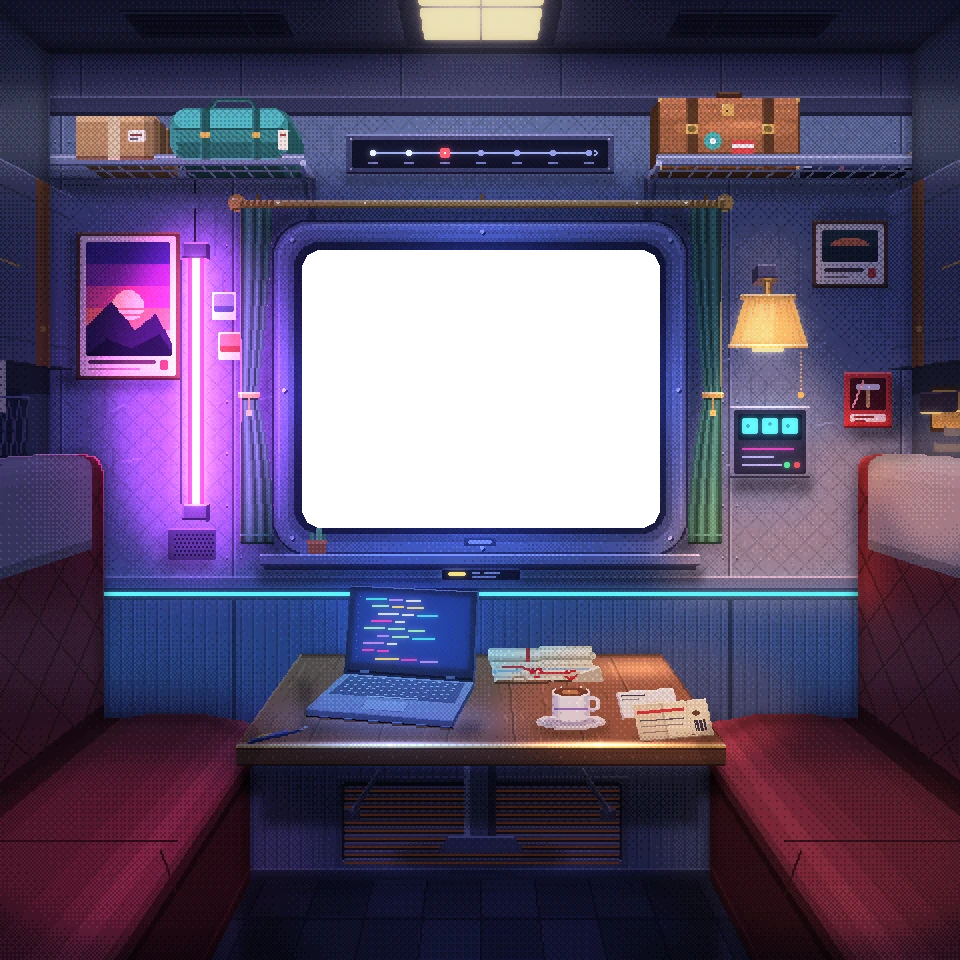
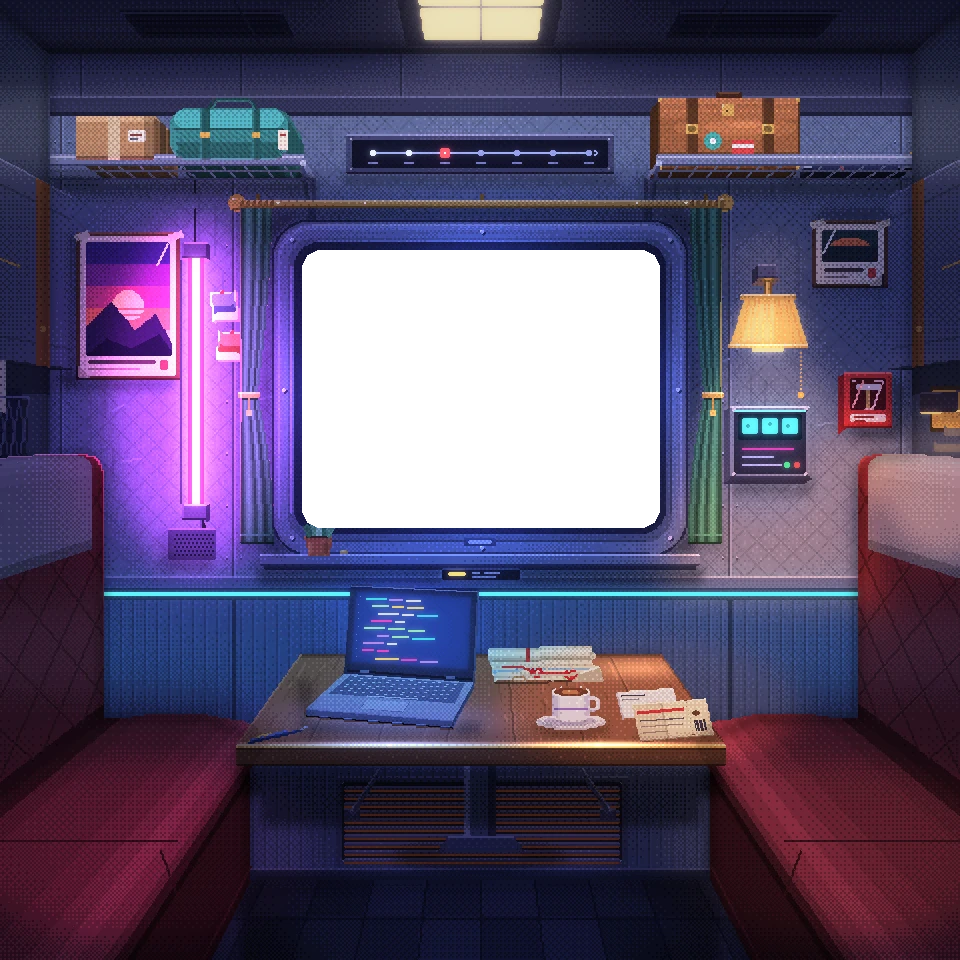
art(O-01, O-02, O-14, O-15, O-16, O-18, O-19): refine the window wall
The window's reveal is lit along its top and left and shadowed right and below, its bolts catch a specular. The sill's plant is a terracotta pot with a rosette, a coin beside it. The tube has its cable. The posters are taped at the top, lift at one corner and carry a glare. The polaroids are tilted, with an edge and a pin. The control panel is a raised housing with screws, its screens glowing on the frame. The hammer box stands off the wall, with a glare on its glass.

diff --git a/tools/art/room.py b/tools/art/room.py
@@ -776,8 +776,16 @@ def window(g, rnd):
     g.speckle(137, 111, 206, 166, 0.07, rnd, 0.3)
     g.line([(156, 112), (324, 112)], (176, 188, 220))
     g.line([(156, 276), (324, 276)], (60, 68, 104))
+    # the reveal's bevel (docs/13, O-01): lit along its top and on the left,
+    # where the neon is, in shadow along the right and the bottom
+    g.line([(158, 120), (322, 120)], mul(fr, 1.1))
+    g.line([(145, 133), (145, 256)], (150, 128, 196))
+    g.line([(146, 133), (146, 256)], mul(fr, 0.95))
+    g.line([(335, 133), (335, 256)], mul(fr, 0.62))
+    g.line([(158, 270), (322, 270)], mul(fr, 0.6))
     for x, y in ((145, 119), (334, 119), (145, 268), (334, 268), (240, 115), (240, 273), (141, 194), (338, 194)):
         g.rect(x, y, 2, 2, (190, 200, 228))
+        g.px(x, y, (246, 248, 255))
         g.px(x + 1, y + 2, (50, 56, 88))
         g.px(x + 2, y + 1, (50, 56, 88))
     # handle
@@ -790,12 +798,29 @@ def window(g, rnd):
     g.rect(130, 282, 220, 1, (50, 56, 88))
     g.rect(132, 283, 216, 2, (40, 46, 74))
     # odds and ends on the sill: a succulent and a coin
-    g.rect(154, 271, 9, 6, (176, 96, 70))
-    g.rect(153, 270, 11, 2, (208, 124, 90))
-    g.rect(155, 266, 2, 4, (86, 160, 110))
-    g.rect(158, 264, 3, 6, (106, 184, 124))
-    g.rect(161, 267, 2, 3, (76, 140, 100))
-    g.px(159, 263, (150, 220, 160))
+    # (docs/13, O-02) a terracotta pot, rim and soil, and a rosette of fat
+    # leaves, lit from the left; its shadow on the sill
+    g.shadow(155, 276, 14, 2, 0.5)
+    g.poly([(153, 270), (165, 270), (164, 277), (154, 277)], (176, 96, 70))
+    g.rect(154, 271, 2, 6, (206, 124, 90))
+    g.rect(162, 271, 2, 6, (140, 74, 56))
+    g.rect(152, 268, 14, 2, (214, 132, 96))
+    g.rect(152, 269, 14, 1, (160, 86, 64))
+    g.rect(153, 268, 12, 1, (70, 50, 44))
+    leaf, lit, dk = (96, 170, 116), (150, 214, 160), (60, 124, 86)
+    for pts, c in (
+        ([(154, 268), (151, 263), (153, 262), (157, 267)], dk),
+        ([(164, 268), (167, 263), (165, 262), (161, 267)], leaf),
+        ([(156, 267), (155, 260), (158, 259), (159, 267)], leaf),
+        ([(162, 267), (163, 260), (160, 259), (159, 267)], dk),
+        ([(158, 267), (158, 257), (160, 257), (160, 267)], lit),
+    ):
+        g.poly(pts, c)
+    g.px(158, 257, (200, 240, 200))
+    g.px(155, 260, (190, 232, 190))
+    # a coin by the pot
+    g.ellipse(170, 275, 4, 2, (200, 170, 96))
+    g.px(171, 275, (255, 236, 170))
     # nameplate
     g.rect(221, 284, 39, 6, (26, 28, 48))
     g.rect(221, 284, 39, 1, (70, 76, 110))
@@ -839,6 +864,19 @@ def poster(g, x, y, w, h, kind):
     g.rect(x + 4, y + h - 8, w - 14, 2, (70, 60, 70))
     g.rect(x + 4, y + h - 4, w - 22, 1, (150, 130, 130))
     g.rect(x + w - 8, y + h - 8, 4, 5, (200, 70, 70))
+    # (docs/13, O-15) tape over the top corners, the bottom corner on the side
+    # away from the light lifting off the wall, and a glare streak across the
+    # print from the light's side
+    for tx in (x - 3, x + w - 4):
+        g.poly([(tx, y - 1), (tx + 6, y - 3), (tx + 7, y), (tx + 1, y + 2)], (214, 210, 186))
+    lit_left = x > 240  # the small frame is lit by the lamp, on its left
+    cx = x + w - 1 if lit_left else x - 2  # the far bottom corner from the light
+    d = 1 if lit_left else -1
+    cy = y + h + 1
+    g.poly([(cx, cy), (cx, cy - 6), (cx - d * 6, cy)], (40, 36, 52))
+    g.poly([(cx - d * 1, cy - 1), (cx - d * 1, cy - 6), (cx - d * 6, cy - 1)], (200, 190, 170))
+    gx = x + 3 if lit_left else x + w - 10
+    g.line([(gx + 6, y + 3), (gx, y + 14)], mix((236, 226, 204), (255, 255, 255), 0.5))
 
 
 def cast(g, x, y, w, h, dx, dy, k=0.3, steps=6):
@@ -885,17 +923,33 @@ def walls(g, rnd):
     g.rect(91, 252, 1, 8, mul(cap, 1.25))
     g.rect(91, 259, 12, 1, (30, 32, 54))
     g.rect(90, 130, 1, 122, (44, 48, 76))
+    # its cable, out of the bottom socket and down behind the speaker (O-14)
+    g.line([(100, 260), (101, 262), (101, 264)], (24, 26, 42), width=2)
+    g.line([(100, 260), (100, 263)], (70, 74, 110))
     g.lrect(94, 129, 8, 123, MAG, 0.95, body=(255, 150, 215))
     g.lrect(96, 129, 4, 123, (255, 200, 235), 1.0, body=(255, 226, 244))
     g.lrect(97, 131, 2, 119, (255, 255, 255), 1.0)
     g.light(56, 110, 84, 176, MAG, 0.6)
     # instant photos
-    for x, y, c in ((106, 146, (90, 130, 170)), (109, 166, (190, 120, 90))):
+    # (docs/13, O-16) each tilted a little, a white border with its edge
+    # showing on the side away from the tube, a pin through the top
+    for x, y, c, tilt in ((106, 146, (90, 130, 170), -6), (109, 166, (190, 120, 90), 5)):
         cast(g, x, y, 12, 14, 5, 2, 0.3, 3)  # right beside the tube: short, hard
-        g.rect(x, y, 12, 14, (238, 234, 224))
-        g.rect(x + 1, y + 1, 10, 9, c)
-        g.rect(x + 1, y + 7, 10, 3, mul(c, 0.6))
-        g.px(x + 6, y - 1, (220, 70, 70))
+        a = math.radians(tilt)
+        cx_, cy_ = x + 6, y + 7
+
+        def rot(px_, py_):
+            dx, dy = px_ - cx_, py_ - cy_
+            return (cx_ + dx * math.cos(a) - dy * math.sin(a), cy_ + dx * math.sin(a) + dy * math.cos(a))
+
+        R = lambda x0, y0, x1, y1: [rot(x0, y0), rot(x1, y0), rot(x1, y1), rot(x0, y1)]
+        g.poly(R(x + 1, y + 1, x + 13, y + 15), (150, 146, 140))  # its edge
+        g.poly(R(x, y, x + 12, y + 14), (238, 234, 224))
+        g.poly(R(x + 1, y + 1, x + 11, y + 10), c)
+        g.poly(R(x + 1, y + 7, x + 11, y + 10), mul(c, 0.6))
+        px_, py_ = rot(x + 6, y)
+        g.rect(round(px_) - 1, round(py_) - 1, 2, 2, (220, 70, 70))
+        g.px(round(px_) - 1, round(py_) - 1, (255, 170, 170))
     # speaker
     cast(g, 84, 264, 24, 16, -3, 6, 0.35, 4)
     g.rect(84, 264, 24, 16, (52, 58, 90))
@@ -946,6 +1000,9 @@ def walls(g, rnd):
     g.light(362, 116, 44, 30, (255, 160, 80), 0.2)
     # control panel (outside any focus region, decorative only)
     cast(g, 365, 203, 40, 36, 1, 9)  # straight under the lamp
+    # a raised housing (O-18): its side toward the room and its underside
+    g.poly([(365, 203), (362, 205), (362, 241), (365, 239)], (54, 60, 92))
+    g.poly([(365, 239), (405, 239), (402, 241), (362, 241)], (40, 44, 72))
     g.rect(365, 203, 40, 36, (92, 104, 142))
     g.rect(365, 203, 40, 1, (160, 172, 206))
     g.rect(365, 238, 40, 1, (44, 50, 80))
@@ -959,10 +1016,16 @@ def walls(g, rnd):
     g.lrect(371, 232, 20, 1, (130, 140, 190), 0.35)
     g.lrect(397, 231, 3, 3, (255, 80, 80), 0.8)
     g.lrect(392, 231, 3, 3, (90, 255, 150), 0.7)
+    for x, y in ((366, 204), (402, 204), (366, 236), (402, 236)):  # screws
+        g.rect(x, y, 2, 2, (150, 160, 196))
+        g.px(x + 1, y + 1, (50, 56, 88))
+    g.lrect(367, 205, 36, 1, (95, 242, 230), 0.12)  # the screens' glow on the frame
     # small picture frame and emergency hammer
     cast(g, 406, 110, 38, 34, 7, -6, 0.4)  # above and right of the lamp
     poster(g, 408, 112, 34, 30, 'moon')
     cast(g, 422, 186, 24, 28, 7, 7)  # below and right of it
+    # a box standing off the wall (O-19): its side toward the room
+    g.poly([(422, 186), (419, 188), (419, 216), (422, 214)], (120, 32, 42))
     g.rect(422, 186, 24, 28, (196, 56, 62))
     g.rect(422, 186, 24, 1, (255, 120, 120))
     g.rect(422, 213, 24, 1, (110, 30, 40))
@@ -973,6 +1036,9 @@ def walls(g, rnd):
     g.rect(425, 207, 18, 4, (240, 232, 226))
     g.rect(427, 208, 10, 1, (150, 50, 50))
     g.rect(427, 210, 6, 1, (150, 50, 50))
+    # the glass over the hammer: a glare streak, and its edge
+    g.line([(437, 190), (441, 190), (436, 204), (432, 204)], (255, 200, 210))
+    g.line([(426, 190), (427, 190)], (255, 220, 225))
 
 
 # ------------------------------------------------------------------ Structure

diff --git a/docs/13-art-review.md b/docs/13-art-review.md
@@ -877,8 +877,8 @@ something else.
 | 4     | 4.4  | done    | fabric: a twill on the holdall; leather: a broad soft sheen across the briefcase's lid; metal: small hard speculars on the window rail, the lamp's rim and the table's brass edge; wood: an edge highlight where the table top turns down to the brass                                                                                                                                                                                                                                                                                           |
 | 5     | 5.1  | done    | laptop redrawn in true perspective: built in metres in the compartment model and projected with P() (the table top is 1.0 × 0.555 m at 0.629 m), turned 11° toward the left-hand seat as if just used, its lid hinged at the back and leaning 12°, clear of the map by more than its lift on focus, with thickness and a contact shadow; five rows of keys at scale, a space bar and a trackpad; the lid standing from the back edge with a bezel, a camera dot and a hinge; the screen's light on the keys and the table; all on the fine layer |
 | 5     | 5.2  | done    | curtains redrawn as gathered cloth: hung on rings at the rod, pinched at the tie-back, flaring below it to a hem, the outer edge straight; three folds of different widths, shaded smoothly across each and lit from their outer side. The lamp (O-17) keeps its shape, by request: it already gained its wall plate, collar and rod in 3.5 and its light in 3.4                                                                                                                                                                                 |
-| 5     | 5.3  | review  | ticket redrawn larger, with a fold, a red band and rows of type, a perforated and notched stub with a punched hole and a barcode, and the business card under it showing a corner; floor tiled 15 cm square in two tones with a paler worn path down the aisle and the table's shadow beneath it (little of it is in frame); the side fittings were redrawn in 1.3, and the net pocket gained a shadow on its partition, though the foreground mostly hides it                                                                                   |
-| 5     | 5.4  | pending |                                                                                                                                                                                                                                                                                                                                                                                                                                                                                                                                                  |
+| 5     | 5.3  | done    | ticket redrawn larger, with a fold, a red band and rows of type, a perforated and notched stub with a punched hole and a barcode, and the business card under it showing a corner; floor tiled 15 cm square in two tones with a paler worn path down the aisle and the table's shadow beneath it (little of it is in frame); the side fittings were redrawn in 1.3, and the net pocket gained a shadow on its partition, though the foreground mostly hides it                                                                                   |
+| 5     | 5.4  | review  | window reveal with a lit top and left and a shadowed right and bottom, speculars on its bolts (glass reflection and raindrops stay out: F-004); the sill's plant as a terracotta pot with a rim and a rosette, a coin beside it; the tube's cable; posters taped at the top corners with a lifting corner and a glare streak; polaroids tilted, with an edge and a pin; the control panel as a raised housing with screws and its screens' glow on the frame; the hammer box with a side and a glare on its glass                                |
 | 5     | 5.5  | pending |                                                                                                                                                                                                                                                                                                                                                                                                                                                                                                                                                  |
 | 5     | 5.6  | pending |                                                                                                                                                                                                                                                                                                                                                                                                                                                                                                                                                  |
 | 6     | 6    | pending |                                                                                                                                                                                                                                                                                                                                                                                                                                                                                                                                                  |
@@ -910,7 +910,7 @@ Done so far in stage 1, beyond what the step table names:
   behind the rack's rail this way.
 
 Stage 1 passed its gate and is merged. Stage 2 passed its gate and is merged.
-Stage 3 passed its gate and is merged. Stage 4 passed its gate and is merged: sharpness (4.1) was skipped after two attempts that stuttered or did not help (F-005 in 09), banded light (4.2), clean diagonals (4.3) and material marks (4.4) are done. Stage 5 has started: the laptop (5.1) passed its gate; the curtains (5.2) passed review; the ticket, floor and side fittings (5.3) are waiting at its gate.
+Stage 3 passed its gate and is merged. Stage 4 passed its gate and is merged: sharpness (4.1) was skipped after two attempts that stuttered or did not help (F-005 in 09), banded light (4.2), clean diagonals (4.3) and material marks (4.4) are done. Stage 5 has started: the laptop (5.1) passed its gate; the curtains (5.2) passed review; the ticket, floor and side fittings (5.3) passed the gate; the window wall's refines (5.4) are waiting for review.
 
 ## Keep in sync
 
